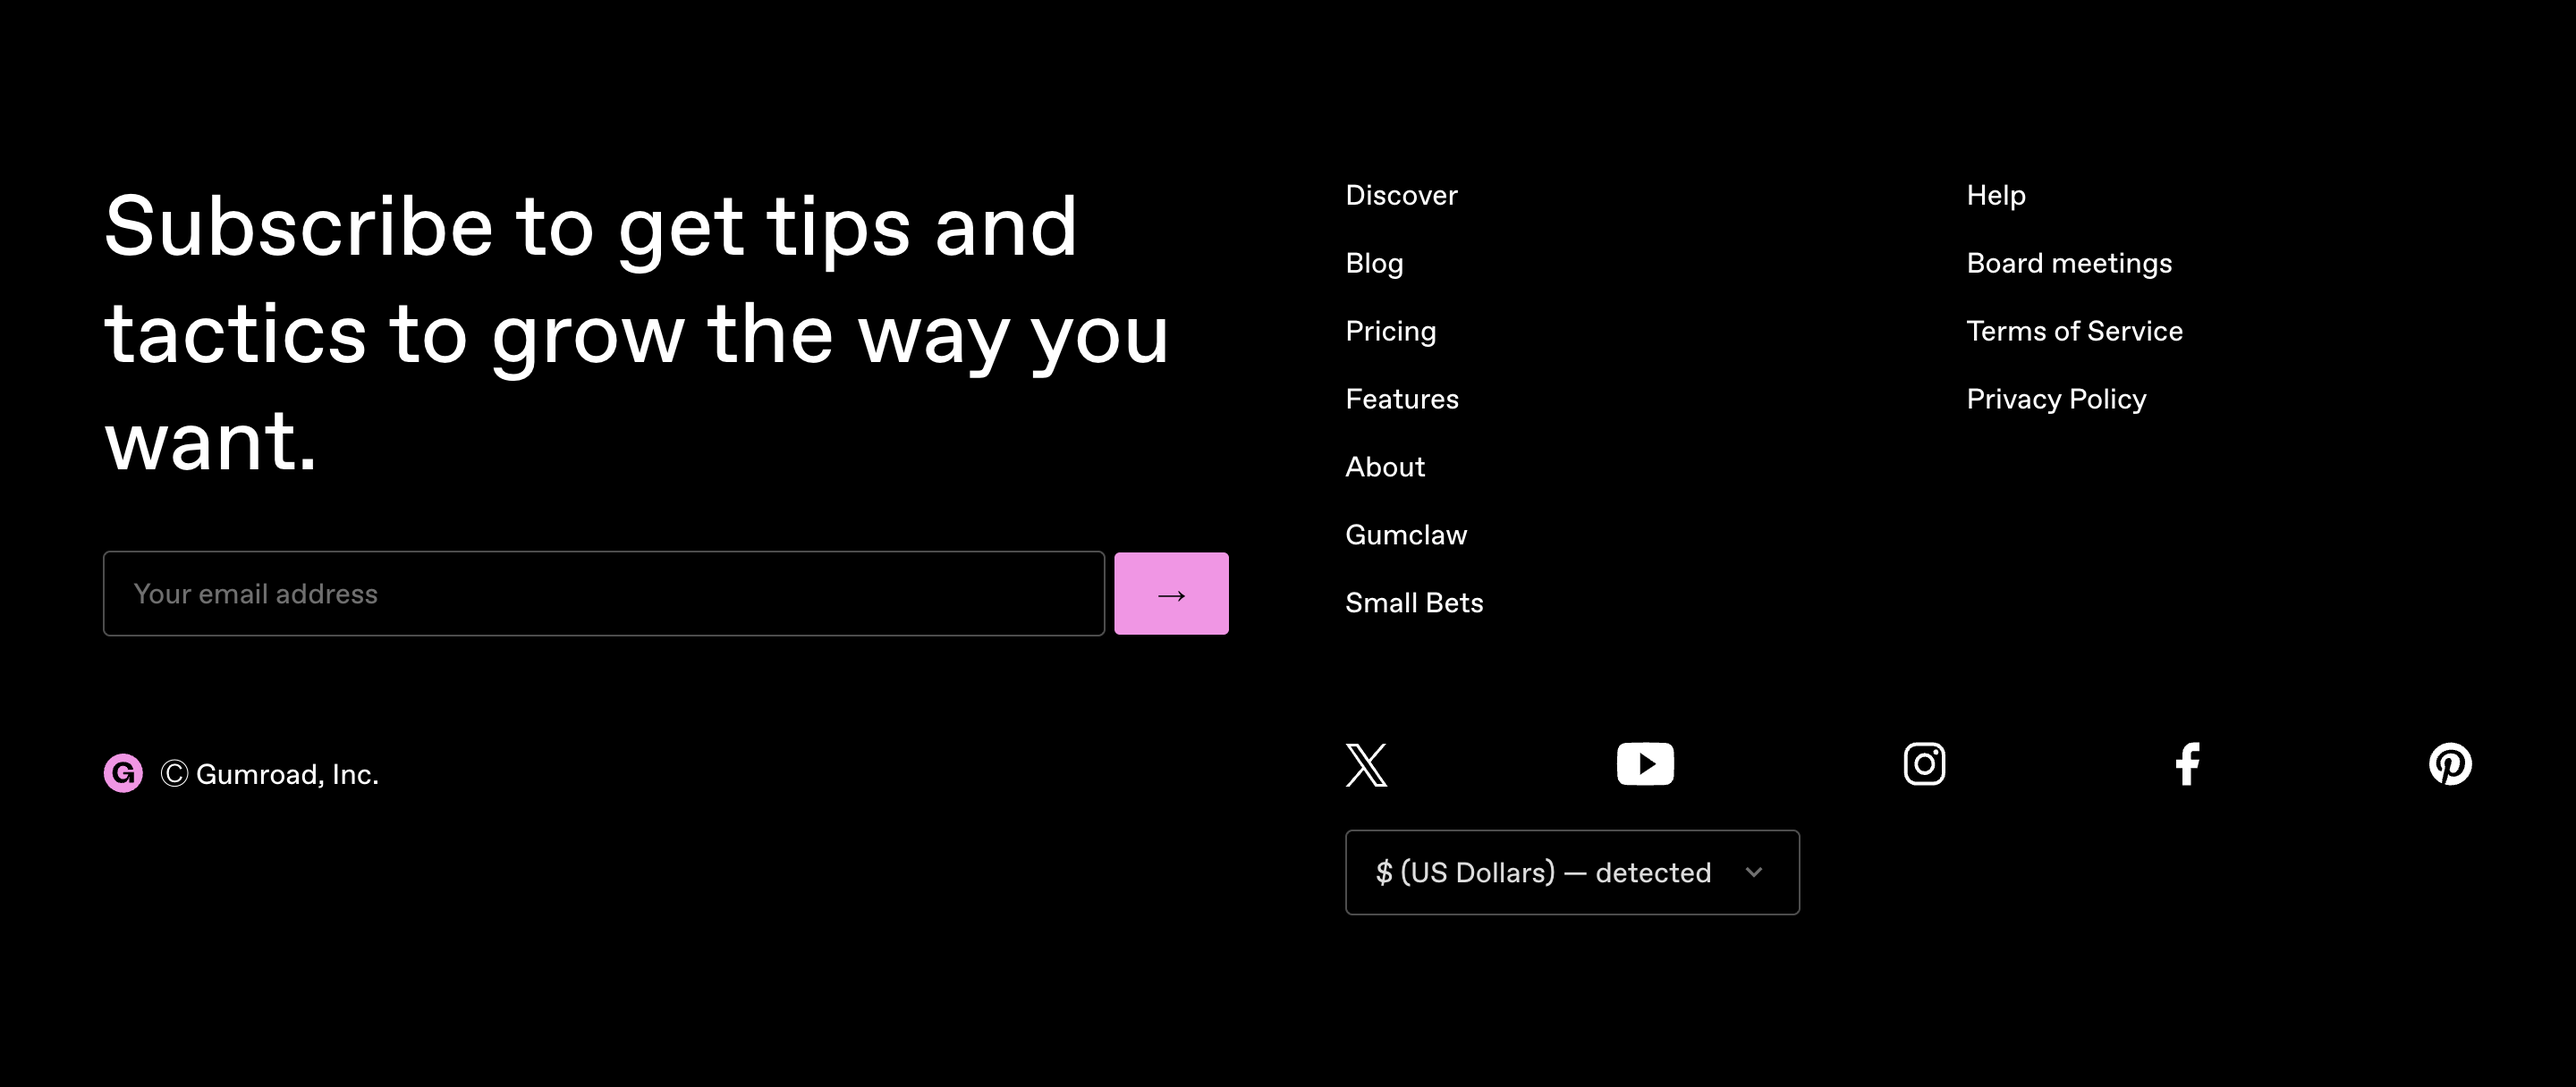
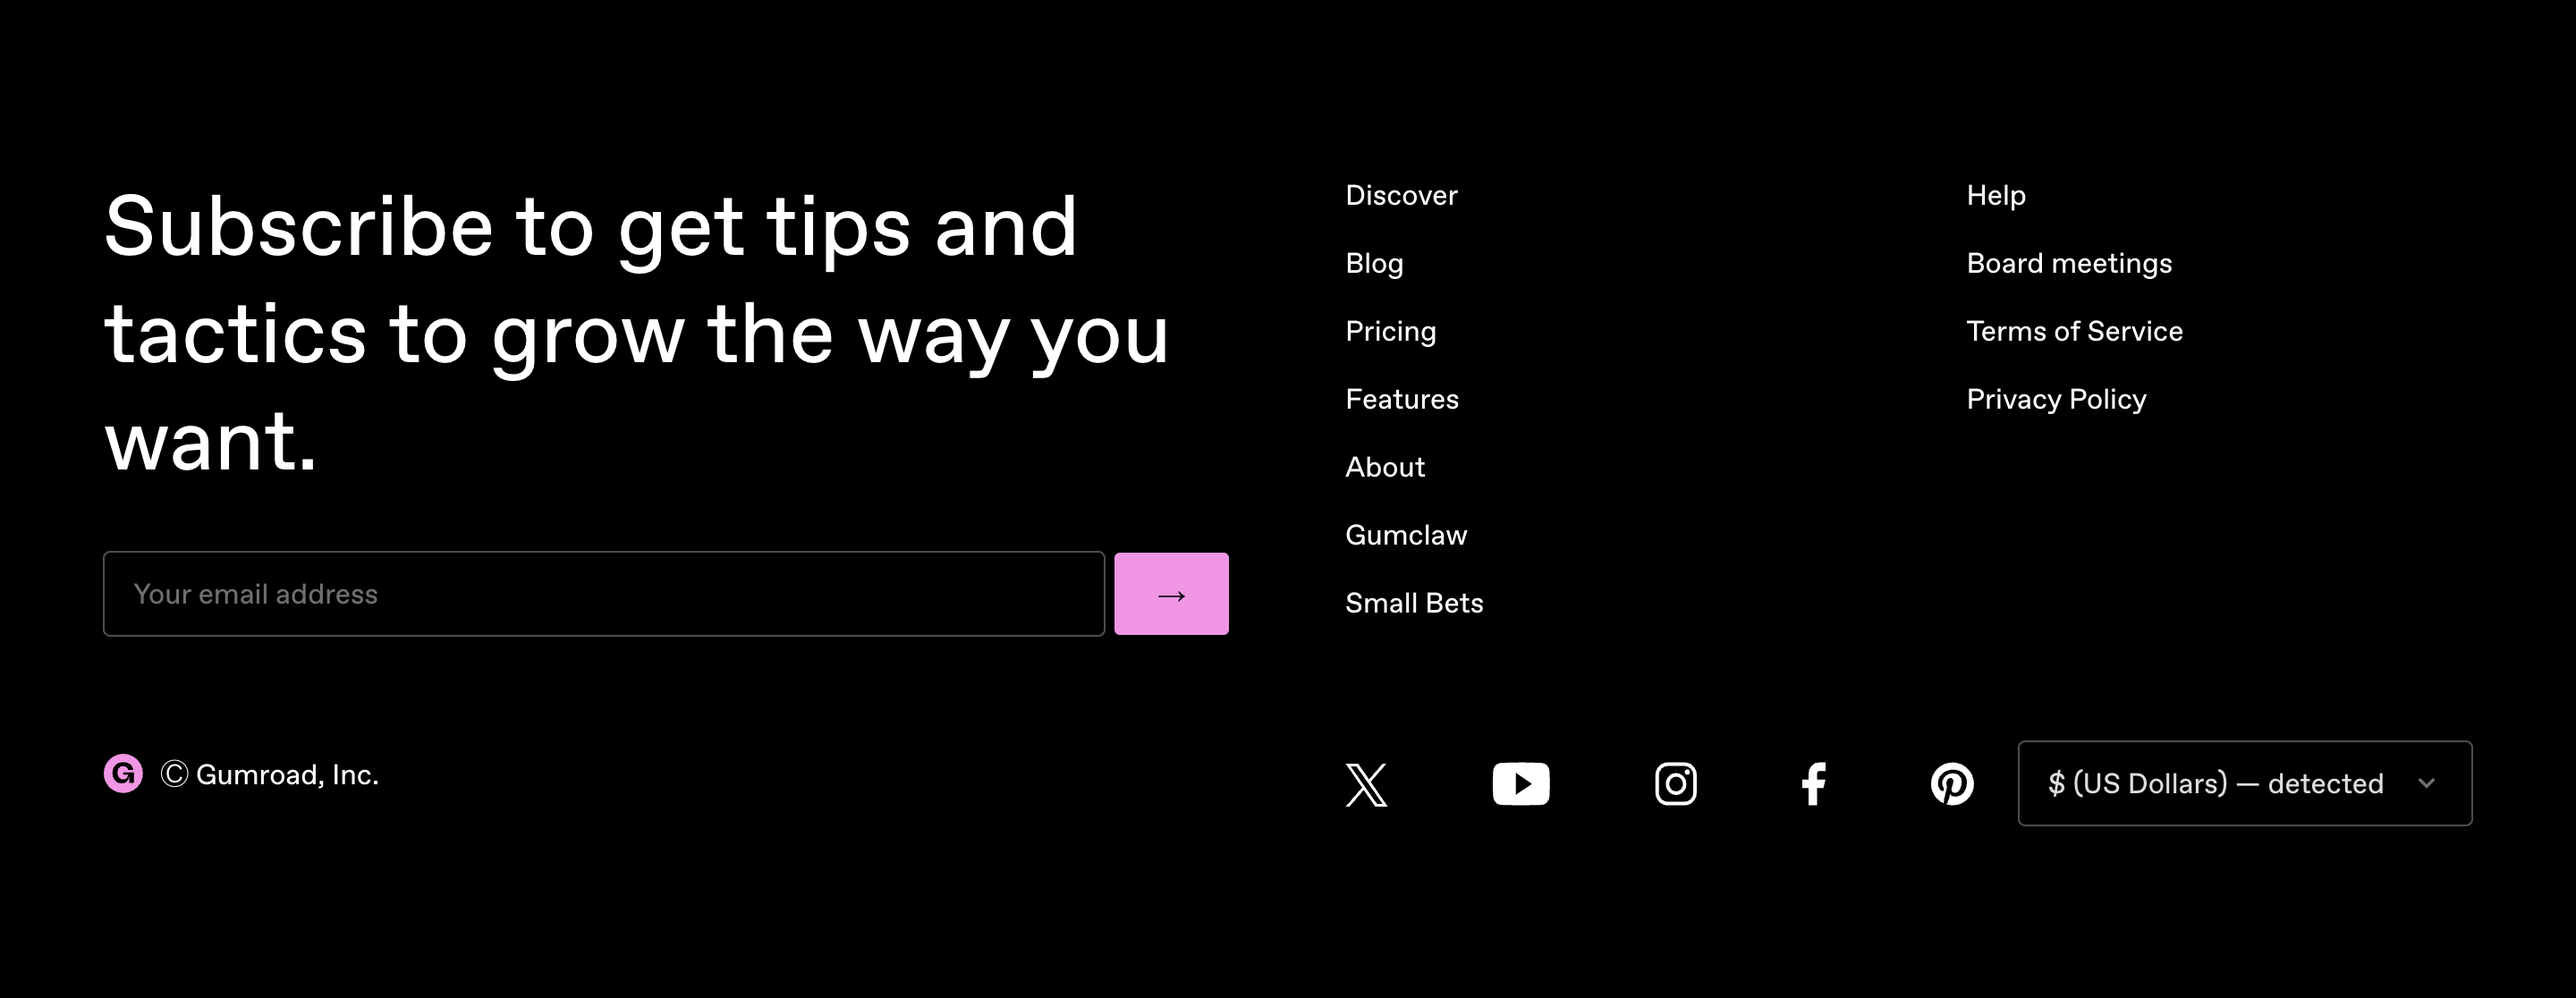
Put the Discover currency selector back on the footer's bottom band
The left column ends with "Ⓒ Gumroad, Inc." and the right column ends with the
social icons; those two already sit on one line across the gutter. The previous
commit hung the selector below that line, orphaned under the links column, with a
ragged bottom edge left behind.

It now sits at the far right of the same band — Gumroad mark on one end, currency
on the other, matching PoweredByFooter and Sahil's "Gumroad in left, Currency
selector in right". The icons keep their own nested group so they and the selector
no longer share one justify-between rail, and with no selector that group still
spans the column and spreads exactly as before, leaving the blog and API-docs
footers untouched.

SocialLink gets shrink-0. The first attempt at this used flex-1 on the icon group,
whose zero flex-basis made the row overflow instead of wrap: at 375px every anchor
computed to 0px and all five icons disappeared while the selector overlapped where
they had been. grow keeps the auto basis, and shrink-0 stops a short parent from
squeezing bare SVGs to nothing.

Measured in a real browser:

- 1440: one line. Icons 752→1104, select 1128→1383 against a content edge of 1382.
- 375: two lines. Icons spread the full width, select below at the left edge.

Discover stills recaptured at both widths, with the GeoIP lookup stubbed to a US
result so the label reads what a US visitor sees.

diff --git a/app/javascript/components/Home/Shared/Footer.tsx b/app/javascript/components/Home/Shared/Footer.tsx
@@ -34,8 +34,10 @@ const FooterLink = ({
   );
 };
 
+// shrink-0: these anchors wrap bare SVGs, so a flex parent that runs short squeezes them to zero
+// width and the icons vanish silently instead of overflowing.
 const SocialLink = ({ href, children }: { href: string; children: React.ReactNode }) => (
-  <a href={href} className="hover:text-pink">
+  <a href={href} className="shrink-0 hover:text-pink">
     {children}
   </a>
 );
@@ -103,8 +105,15 @@ export const HomeFooter = ({ currencySelector = false }: { currencySelector?: bo
             <FooterLink href={Routes.privacy_path()}>Privacy Policy</FooterLink>
           </div>
         </div>
-        <div className="flex flex-col gap-6">
-          <div className="flex justify-between">
+        {/*
+          The copyright at the bottom of the left column and this row form one band across the
+          gutter, so the selector belongs at its far right — Gumroad mark on one end, currency on
+          the other, the same relationship PoweredByFooter has. The icons keep their own group so
+          the two do not share a distribution rail; with no selector the group spans the column and
+          spreads exactly as it did before.
+        */}
+        <div className="flex flex-wrap items-center justify-between gap-6">
+          <div className="flex grow justify-between gap-6">
             <SocialLink href="https://x.com/gumroad">
               <svg width="24" height="24" viewBox="0 0 1200 1227" fill="none" xmlns="http://www.w3.org/2000/svg">
                 <path
